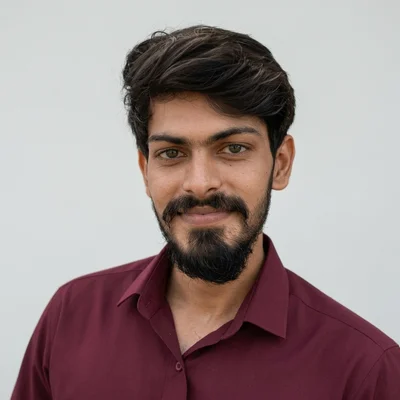
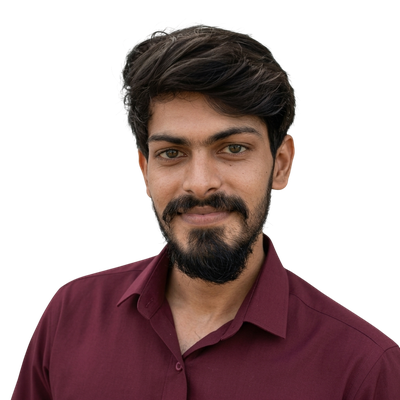
fix: transparent bg profile photo with glow ring

diff --git a/src/components/home/Hero.tsx b/src/components/home/Hero.tsx
@@ -73,7 +73,7 @@ export function Hero() {
             width={120}
             height={120}
             priority
-            className="mb-3 h-20 w-20 rounded-full border-2 border-primary/30 object-cover shadow-xl shadow-primary/20 md:h-32 md:w-32"
+            className="mb-3 h-20 w-20 rounded-full border-2 border-primary/30 object-cover shadow-xl shadow-primary/20 ring-2 ring-primary/20 ring-offset-2 ring-offset-background md:h-32 md:w-32"
           />
         </motion.div>
 